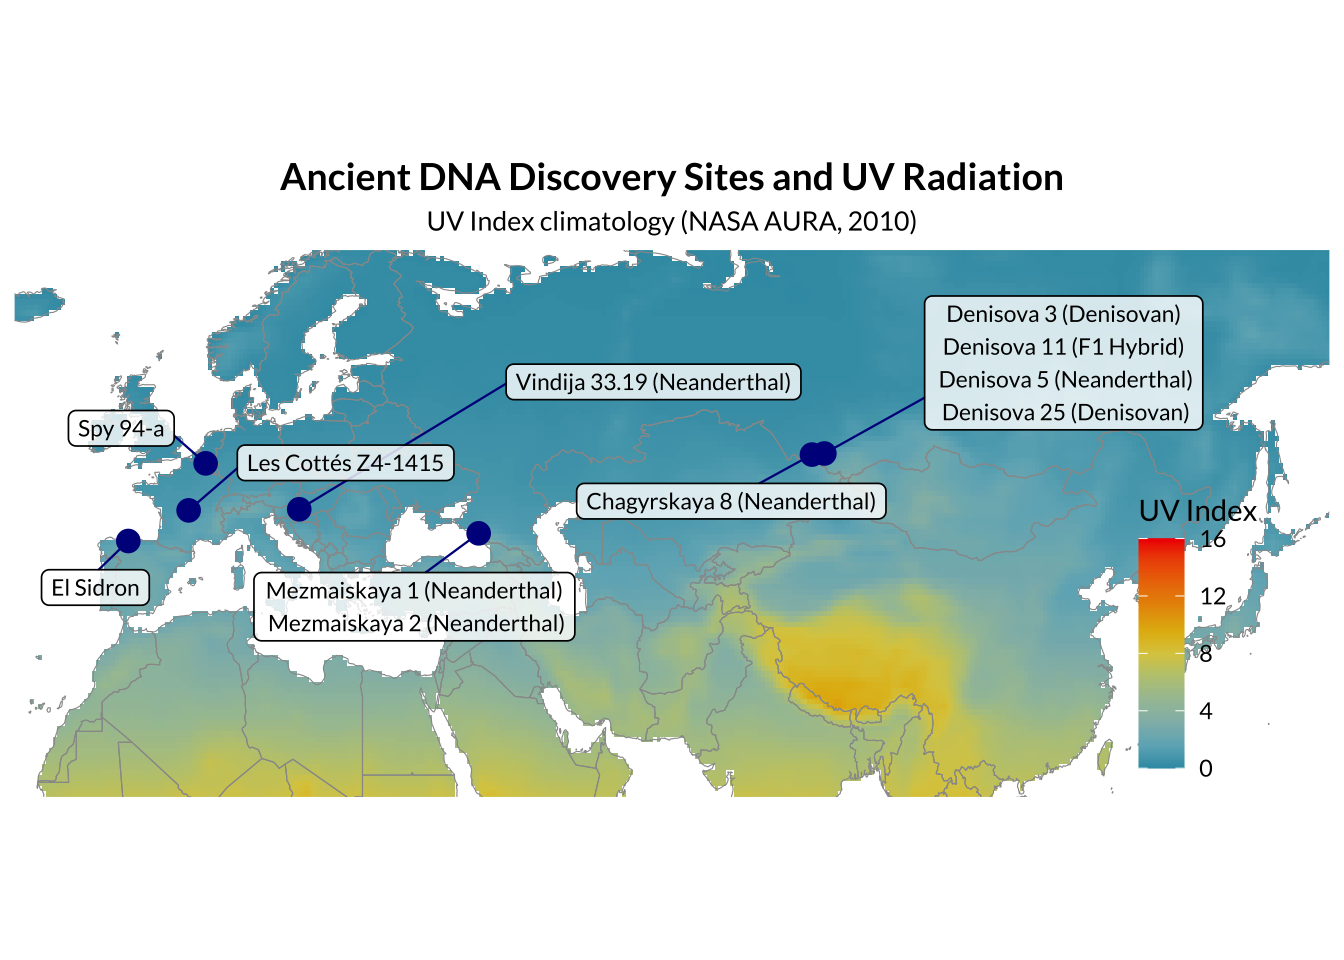
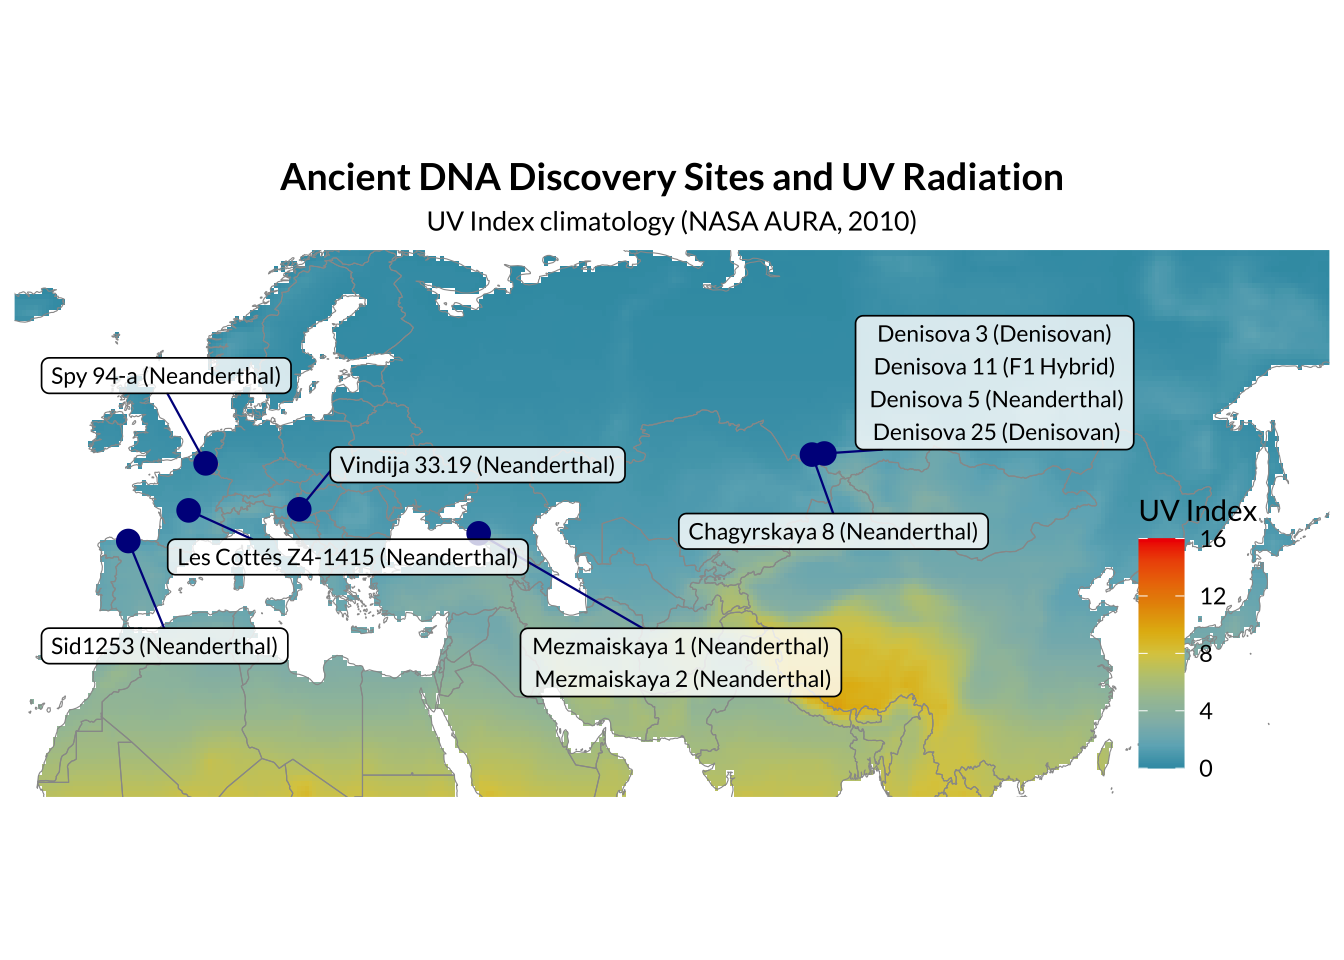
Add Chag8

Changed region(s): [[0.0312, 0.375, 0.75, 0.5938], [0.0312, 0.5312, 0.625, 0.75], [0.625, 0.2812, 0.9062, 0.4688]]

diff --git a/docs/introduction.html b/docs/introduction.html
@@ -385,7 +385,7 @@ aria-hidden="true"></span> </a>
 <div class="tab-content">
 <div id="summary" class="tab-pane fade in active">
 <p>
-<strong>Last updated:</strong> 2025-11-20
+<strong>Last updated:</strong> 2026-01-14
 </p>
 <p>
 <strong>Checks:</strong> <span
@@ -519,15 +519,15 @@ project makes it easier to run your code on other machines.</p>
 <div class="panel panel-default">
 <div class="panel-heading">
 <p class="panel-title">
-<a data-toggle="collapse" data-parent="#workflowr-checks" href="#strongRepositoryversionstrongahrefhttpsgithubcomlilyhealdPAINTtree9209569808cab15f7cde5d492320e61ed4f2a409targetblank9209569a">
+<a data-toggle="collapse" data-parent="#workflowr-checks" href="#strongRepositoryversionstrongahrefhttpsgithubcomlilyhealdPAINTtree7bb18d491bfa0da2dc48b003bc763bff99da2894targetblank7bb18d4a">
 <span class="glyphicon glyphicon-ok text-success"
 aria-hidden="true"></span> <strong>Repository version:</strong>
-<a href="https://github.com/lilyheald/PAINT/tree/9209569808cab15f7cde5d492320e61ed4f2a409" target="_blank">9209569</a>
+<a href="https://github.com/lilyheald/PAINT/tree/7bb18d491bfa0da2dc48b003bc763bff99da2894" target="_blank">7bb18d4</a>
 </a>
 </p>
 </div>
 <div
[2 lines of base64/hex data omitted]
 class="panel-collapse collapse">
 <div class="panel-body">
 <p>
@@ -537,7 +537,7 @@ reproducibility.
 </p>
 <p>
 The results in this page were generated with repository version
-<a href="https://github.com/lilyheald/PAINT/tree/9209569808cab15f7cde5d492320e61ed4f2a409" target="_blank">9209569</a>.
+<a href="https://github.com/lilyheald/PAINT/tree/7bb18d491bfa0da2dc48b003bc763bff99da2894" target="_blank">7bb18d4</a>.
 See the <em>Past versions</em> tab to see a history of the changes made
 to the R Markdown and HTML files.
 </p>
@@ -558,12 +558,11 @@ Ignored files:
     Ignored:    data/neo_uvi.csv
 
 Untracked files:
-    Untracked:  data/mez2_depth.txt
+    Untracked:  data/Chagyrskaya8_depth.txt
 
 Unstaged changes:
     Modified:   .DS_Store
     Modified:   analysis/introduction.Rmd
-    Modified:   data/.DS_Store
 
 </code></pre>
 <p>
@@ -608,6 +607,57 @@ Message
 </tr>
 </thead>
 <tbody>
+<tr>
+<td>
+Rmd
+</td>
+<td>
+<a href="https://github.com/lilyheald/PAINT/blob/7bb18d491bfa0da2dc48b003bc763bff99da2894/analysis/introduction.Rmd" target="_blank">7bb18d4</a>
+</td>
+<td>
+Lily Heald
+</td>
+<td>
+2025-11-20
+</td>
+<td>
+update sample names
+</td>
+</tr>
+<tr>
+<td>
+Rmd
+</td>
+<td>
+<a href="https://github.com/lilyheald/PAINT/blob/9ac4aca2dc2c4537809943c4ca523ba7bc17ad51/analysis/introduction.Rmd" target="_blank">9ac4aca</a>
+</td>
+<td>
+Lily Heald
+</td>
+<td>
+2025-11-20
+</td>
+<td>
+add mez2
+</td>
+</tr>
+<tr>
+<td>
+html
+</td>
+<td>
+<a href="https://rawcdn.githack.com/lilyheald/PAINT/9ac4aca2dc2c4537809943c4ca523ba7bc17ad51/docs/introduction.html" target="_blank">9ac4aca</a>
+</td>
+<td>
+Lily Heald
+</td>
+<td>
+2025-11-20
+</td>
+<td>
+add mez2
+</td>
+</tr>
 <tr>
 <td>
 Rmd
@@ -1017,9 +1067,9 @@ names(uv_land_df) &lt;- c(&quot;lon&quot;, &quot;lat&quot;, &quot;UVIndex&quot;)
     &quot;Chagyrskaya 8 (Neanderthal)&quot;,
     &quot;Vindija 33.19 (Neanderthal)&quot;,
     &quot;Mezmaiskaya 1 (Neanderthal)\n Mezmaiskaya 2 (Neanderthal)&quot;, 
-    &quot;El Sidron&quot;,
-    &quot;Spy 94-a&quot;,
-    &quot;Les Cottés Z4-1415&quot;),
+    &quot;Sid1253 (Neanderthal)&quot;,
+    &quot;Spy 94-a (Neanderthal)&quot;,
+    &quot;Les Cottés Z4-1415 (Neanderthal)&quot;),
   lon  = c(84.7, 83.1, 16.8, 40, -5.3, 4.7, 2.5), #E (+) W (-)
   lat  = c(51.4, 51.3, 46.3, 44.1, 43.4, 50.5, 46.2) #N (+) S (-)
 )
@@ -1207,6 +1257,17 @@ Date
 <tbody>
 <tr>
 <td>
+<a href="https://github.com/lilyheald/PAINT/blob/9ac4aca2dc2c4537809943c4ca523ba7bc17ad51/docs/figure/introduction.Rmd/depth_viz-1.png" target="_blank">9ac4aca</a>
+</td>
+<td>
+Lily Heald
+</td>
+<td>
+2025-11-20
+</td>
+</tr>
+<tr>
+<td>
 <a href="https://github.com/lilyheald/PAINT/blob/9209569808cab15f7cde5d492320e61ed4f2a409/docs/figure/introduction.Rmd/depth_viz-1.png" target="_blank">9209569</a>
 </td>
 <td>
@@ -1298,6 +1359,17 @@ Date
 <tbody>
 <tr>
 <td>
+<a href="https://github.com/lilyheald/PAINT/blob/9ac4aca2dc2c4537809943c4ca523ba7bc17ad51/docs/figure/introduction.Rmd/depth_viz_log-1.png" target="_blank">9ac4aca</a>
+</td>
+<td>
+Lily Heald
+</td>
+<td>
+2025-11-20
+</td>
+</tr>
+<tr>
+<td>
 <a href="https://github.com/lilyheald/PAINT/blob/9209569808cab15f7cde5d492320e61ed4f2a409/docs/figure/introduction.Rmd/depth_viz_log-1.png" target="_blank">9209569</a>
 </td>
 <td>
@@ -1366,8 +1438,8 @@ other attached packages:
 [10] purrr_1.0.4             readr_2.1.5             tidyr_1.3.1            
 [13] tibble_3.3.0            tidyverse_2.0.0         ggrepel_0.9.6          
 [16] viridis_0.6.5           viridisLite_0.4.2       ggspatial_1.1.10       
-[19] raster_3.6-32           sp_2.2-0                sf_1.0-21              
-[22] rnaturalearthdata_1.0.0 rnaturalearth_1.1.0     ggplot2_4.0.0          
+[19] raster_3.6-32           sp_2.2-0                sf_1.0-23              
+[22] rnaturalearthdata_1.0.0 rnaturalearth_1.1.0     ggplot2_4.0.1          
 [25] workflowr_1.7.1        
 
 loaded via a namespace (and not attached):
